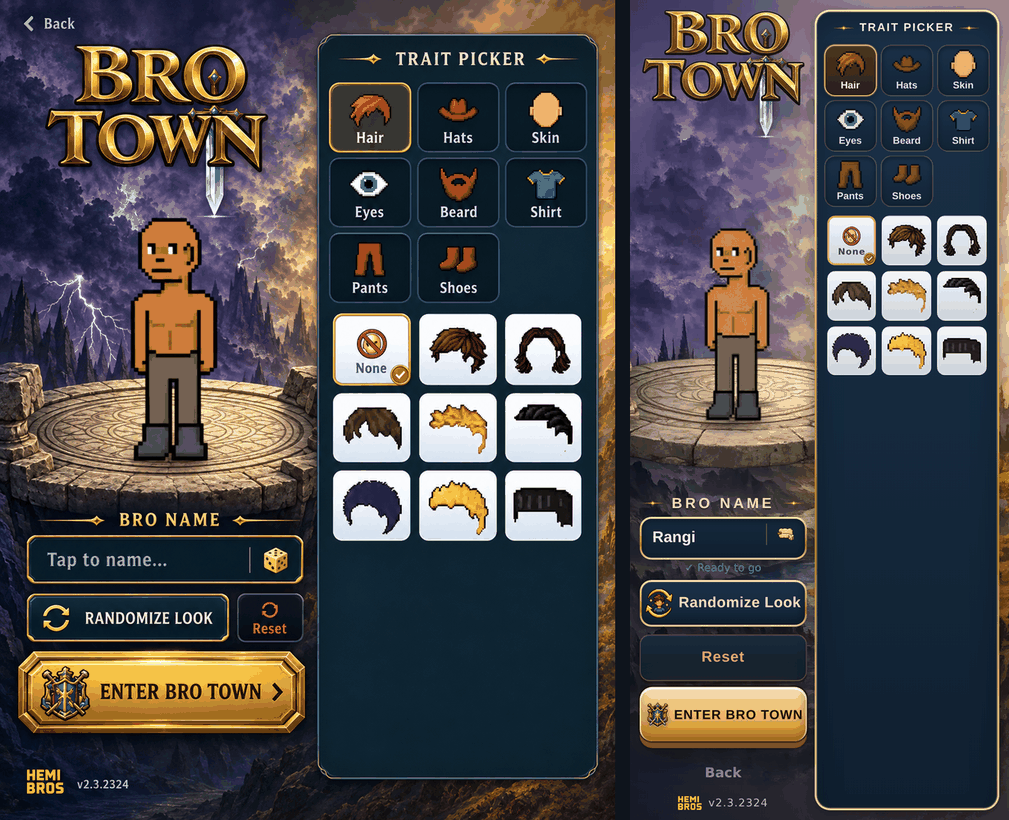
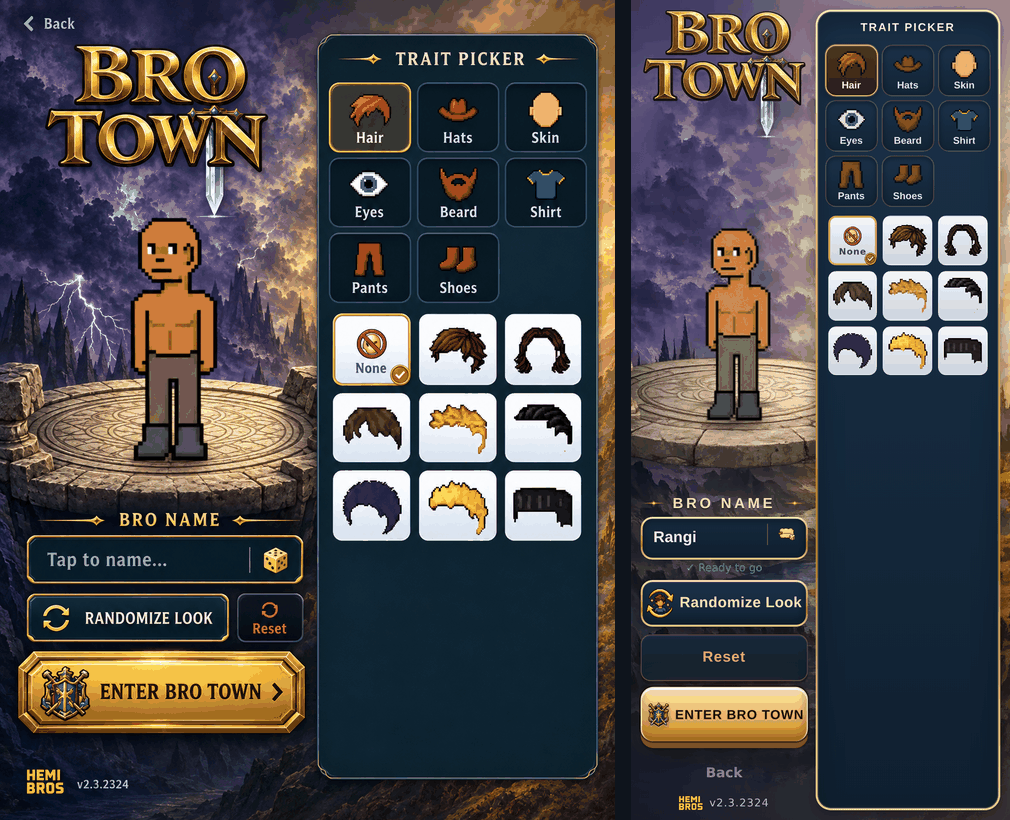
Drop the sparkles from the TRAIT PICKER heading (v2.3.2360)
Owner: "You can remove the sparkles framing 'TRAIT PICKER' too."

The two ornaments go, and with them the flex row that existed only to seat
them -- the heading is a plain centred block now, which is also the least
surprising arrangement for background-clip:text.  The gold leaf on the
glyphs is unchanged, as is the @supports fallback that keeps the words
visible on a UA without background-clip:text.

Removed with them, because they had no other reason to exist:
  - the 320-class rule that hid the ornaments when the pane got narrow;
  - the note in .bt-cc-panel's header calling the sparkle the one baked
    asset the pane needed.  The pane is now entirely CSS.

BRO NAME keeps its pair -- the owner named this heading, not that one --
so sparkle.webp stays on disk and in use.  Say the word and it comes off
there too; it is the same two-line deletion.

Checked rather than assumed: nothing in tools/qa asserts the picker's
ornaments (mp-keylogin's sparkle assertions are about the HEMI BROS logo,
a different image), so no scenario is silently weakened by this.

Comparison shot regenerated from the built client so it shows what ships.

Verified on a real client at 390x844 and 320x568: both pseudo-elements
report content:none, the heading renders block/centred, and the gradient
still clips to the glyphs (fill transparent, words visible).  precheck OK;
mp ccload/ccsize/ccbuttons/ccstand/charlock 85 assertions, 84 pass -- the
[…]

diff --git a/src/styles/game.css b/src/styles/game.css
@@ -2670,8 +2670,8 @@ input{font-family:inherit}
 
    The frame is two gradients, not a nine-slice -- padding-box for the navy
    well, border-box for the metal -- so it stays resolution-free and costs no
-   art.  The only baked asset added is the sparkle beside the title, which is
-   the owner's own ornament. */
+   art.  v2.3.2360: it costs no art at all now -- the sparkles that flanked
+   the title are gone at the owner's word, so the whole pane is CSS. */
 .bt-cc-panel{position:relative;z-index:1;flex:1 1 auto;min-width:0;min-height:0;display:flex;flex-direction:column;gap:7px;padding:9px 8px 8px;
   border:2px solid transparent;border-radius:16px;
   background:
@@ -2682,14 +2682,18 @@ input{font-family:inherit}
     inset 0 14px 26px rgba(4,10,18,.34),
     0 4px 16px rgba(3,8,12,.46);
   box-sizing:border-box;overflow:hidden}
-/* v2.3.2358: the title is gold leaf between two of the owner's sparkles.
-   The gradient is clipped to the glyphs (-webkit-background-clip:text, which
-   is what iOS Safari supports); deliberately NO filter: drop-shadow -- the
-   creator stage is a live canvas one flex sibling away and CLAUDE.md's
-   standing suspicion about filters compositing near WebGL is not worth
-   testing for a shadow nobody asked for.  The sparkle is a real <img>-free
-   background so it cannot be dragged or long-pressed on iOS. */
-.bt-cc-panel-title{flex:0 0 auto;margin:0;padding:1px 2px 4px;display:flex;align-items:center;justify-content:center;gap:5px;
+/* v2.3.2358: the title is gold leaf -- the gradient clipped to the glyphs
+   (-webkit-background-clip:text, which is what iOS Safari supports);
+   deliberately NO filter: drop-shadow -- the creator stage is a live canvas
+   one flex sibling away and CLAUDE.md's standing suspicion about filters
+   compositing near WebGL is not worth testing for a shadow nobody asked for.
+   v2.3.2360 (owner: "you can remove the sparkles framing TRAIT PICKER too"):
+   the two ornaments are gone, and with them the flex row that existed only to
+   seat them -- a plain centred block, which is also the arrangement
+   background-clip:text is least surprising on.  BRO NAME keeps its pair; the
+   owner named this heading, not that one.  sparkle.webp stays on disk and in
+   use there. */
+.bt-cc-panel-title{flex:0 0 auto;margin:0;padding:1px 2px 4px;display:block;
   font-family:'Source Sans 3',sans-serif;font-size:clamp(11px,3vw,14px);font-weight:800;letter-spacing:.11em;text-transform:uppercase;text-align:center;white-space:nowrap;
   color:#F7EFDD;
   background:linear-gradient(180deg,#FFFFFF 0%,#F6EAD2 46%,#E4D0A6 100%);
@@ -2700,11 +2704,6 @@ input{font-family:inherit}
 @supports not ((-webkit-background-clip:text) or (background-clip:text)){
   .bt-cc-panel-title{-webkit-text-fill-color:#F7EFDD;background:none}
 }
-.bt-cc-panel-title::before,.bt-cc-panel-title::after{
-  content:'';flex:0 0 auto;width:clamp(15px,5.6vw,26px);height:11px;
-  background:url('/ui/welcome/title/sparkle.webp?v=2.3.2358') center/contain no-repeat;
-  /* the sparkle is its own art: keep the text gradient off it */
-  -webkit-background-clip:border-box;background-clip:border-box}
 /* v2.3.1272: the two creator media blocks moved BELOW every base rule
    they override — they sat earlier in the file, so equal-specificity
    base declarations silently won and the 690/359 fallbacks were dead
@@ -2769,10 +2768,6 @@ input{font-family:inherit}
      112px.  No !important needed -- NameModal pins the icon's width/height
      inline, not its display. */
   .bt-cc-randomize .bt-cc-action-icon{display:none}
-  /* v2.3.2358: at 320-class the pane is ~155px and the sparkles end up
-     flush against the gold frame with the title touching both.  The words
-     are the content; the ornaments are decoration, so the ornaments go. */
-  .bt-cc-panel-title::before,.bt-cc-panel-title::after{display:none}
 }
 .bt-avatar-pick{display:flex;gap:6px;justify-content:center;flex-wrap:wrap;margin:12px 0}
 .bt-avatar-opt{width:56px;height:56px;border-radius:10px;border:2px solid var(--line);cursor:pointer;overflow:hidden;transition:border-color .15s,transform .15s}
